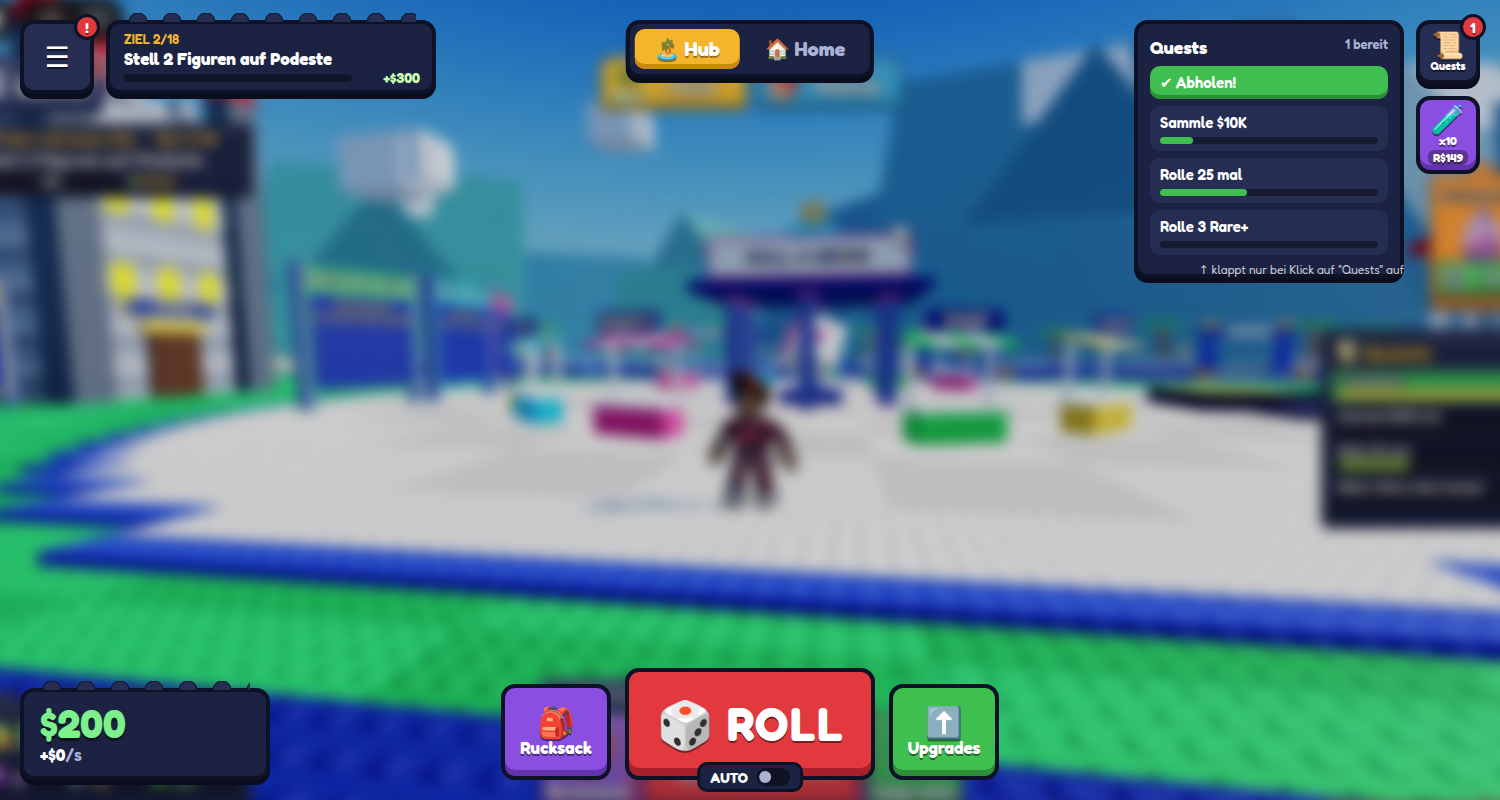
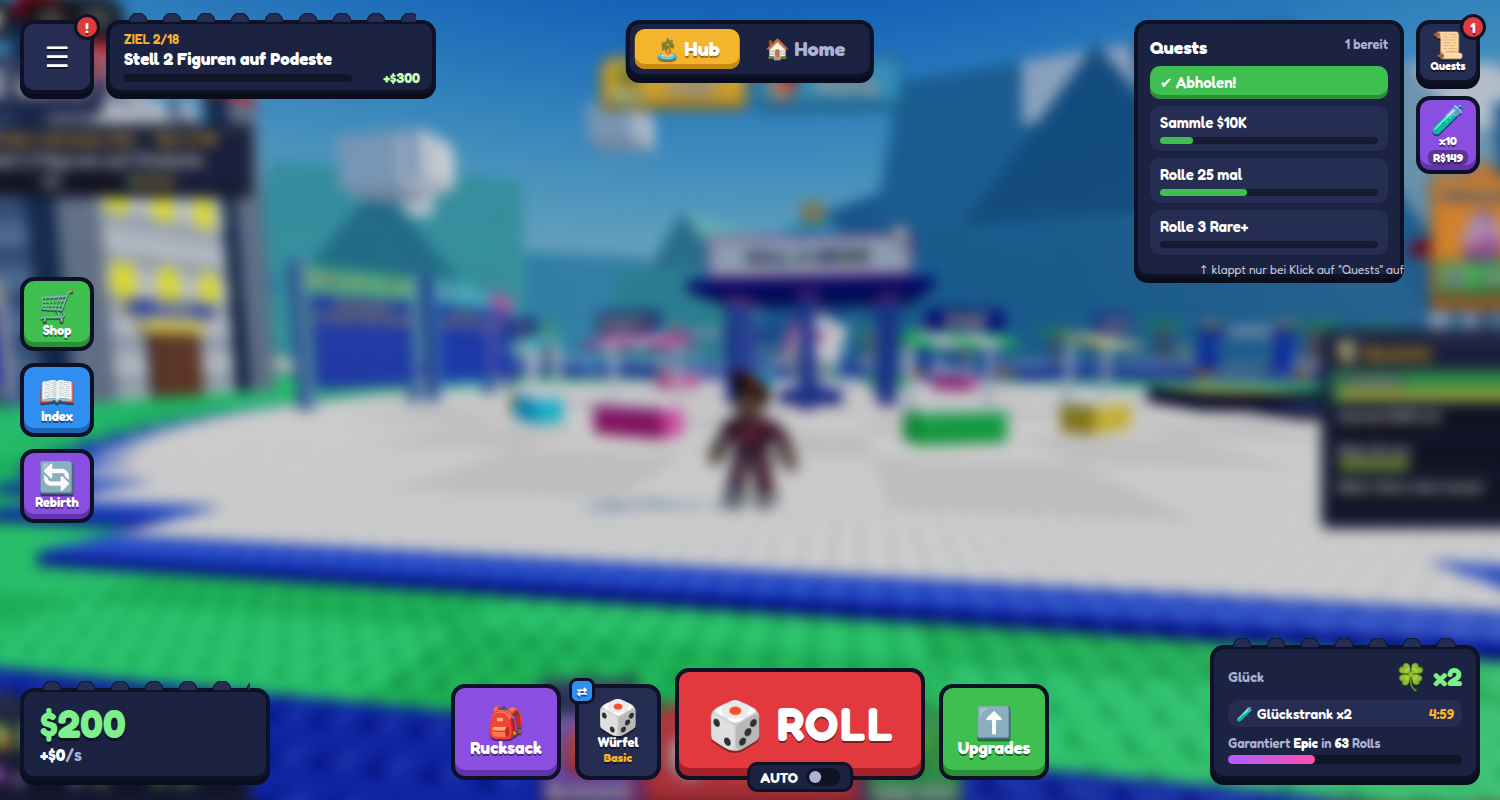
HUD mockup: dice slot next to ROLL, quick-access buttons left, luck/boost panel bottom right
Claude-Session: https://claude.ai/code/session_011Y9eLrQrfVgFdzMCZL4CK8

Changed region(s): [[0.276, 0.8125, 0.7053, 1.0], [0.7973, 0.7812, 1.0, 1.0], [0.0, 0.3438, 0.0613, 0.6562]]

diff --git a/world/ui/hud_mockup.html b/world/ui/hud_mockup.html
@@ -70,6 +70,30 @@ body{margin:0;font-family:Fredoka,system-ui,sans-serif;color:#fff;background:#00
 .toggle{width:34px;height:18px;border-radius:9px;background:#0007;position:relative}
 .toggle:after{content:"";position:absolute;left:3px;top:3px;width:12px;height:12px;border-radius:50%;background:var(--muted)}
 .tag{position:absolute;left:20px;bottom:126px;font-size:12px;color:#fff;background:#0008;border-radius:8px;padding:4px 8px}
+
+/* Wuerfel-Slot am ROLL-Knopf */
+.dice{width:86px;height:96px;background:var(--navy2);font-size:13px;color:#fff}
+.dice .ic{font-size:34px}
+.dice .nm{font-size:12px;color:var(--yellow)}
+.dice .sw{position:absolute;top:-10px;left:-10px;width:26px;height:26px;border-radius:8px;background:var(--blue);border:3px solid var(--edge);display:grid;place-items:center;font-size:13px}
+/* links: Schnellzugriff */
+.quick{position:absolute;left:20px;top:50%;transform:translateY(-50%);display:flex;flex-direction:column;gap:12px}
+.qb{width:74px;height:74px;font-size:13px}
+.qb .ic{font-size:30px;margin-bottom:2px}
+.qb.shop{background:var(--green);box-shadow:inset 0 -5px 0 var(--green-d)}
+.qb.index{background:var(--blue);box-shadow:inset 0 -5px 0 var(--blue-d)}
+.qb.reb{background:var(--purple);box-shadow:inset 0 -5px 0 var(--purple-d)}
+/* rechts unten: Glueck */
+.luck{right:20px;bottom:20px;width:270px;padding:12px 14px}
+.luck .top{display:flex;justify-content:space-between;align-items:center}
+.luck .lv{font-size:26px;font-weight:700;color:#7cf08a}
+.luck .lt{font-size:14px;color:var(--muted);font-weight:600}
+.boost{display:flex;align-items:center;gap:8px;background:var(--navy2);border-radius:10px;padding:5px 8px;margin-top:8px;font-size:14px;font-weight:600}
+.boost .tm{margin-left:auto;color:var(--yellow)}
+.pity{margin-top:8px;font-size:13px;color:var(--muted);font-weight:600}
+.pity .b{height:9px;border-radius:5px;background:#0006;margin-top:4px}
+.pity .b i{display:block;height:100%;width:37%;border-radius:5px;background:linear-gradient(90deg,#b05cff,#ff4fb0)}
+.pity b{color:#fff}
 </style>
 </head>
 <body>
@@ -101,6 +125,18 @@ body{margin:0;font-family:Fredoka,system-ui,sans-serif;color:#fff;background:#00
   </div>
   <div class="hint">↑ klappt nur bei Klick auf "Quests" auf</div>
 
+  <div class="quick">
+    <div class="btn qb shop"><span class="ic">🛒</span>Shop</div>
+    <div class="btn qb index"><span class="ic">📖</span>Index</div>
+    <div class="btn qb reb"><span class="ic">🔄</span>Rebirth</div>
+  </div>
+
+  <div class="panel studs luck">
+    <div class="top"><span class="lt">Glück</span><span class="lv">🍀 x2</span></div>
+    <div class="boost">🧪 Glückstrank x2<span class="tm">4:59</span></div>
+    <div class="pity">Garantiert <b>Epic</b> in <b>63</b> Rolls<div class="b"><i></i></div></div>
+  </div>
+
   <div class="panel studs money">
     <div class="v">$200</div>
     <div class="r"><b>+$0</b>/s</div>
@@ -108,6 +144,7 @@ body{margin:0;font-family:Fredoka,system-ui,sans-serif;color:#fff;background:#00
 
   <div class="actions">
     <div class="btn act purple"><span class="ic">🎒</span>Rucksack</div>
+    <div class="btn dice"><span class="sw">⇄</span><span class="ic">🎲</span>Würfel<span class="nm">Basic</span></div>
     <div class="btn roll"><span class="ic">🎲</span>ROLL<div class="auto">AUTO <span class="toggle"></span></div></div>
     <div class="btn act green"><span class="ic">⬆</span>Upgrades</div>
   </div>
